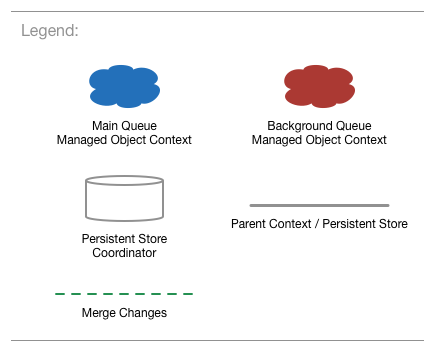
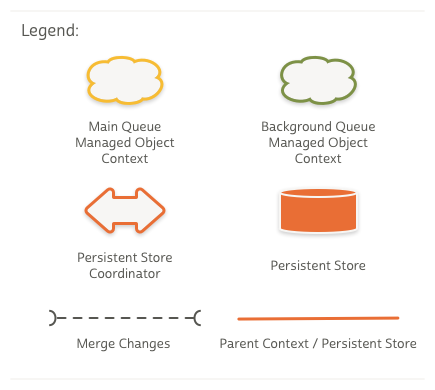
Add new diagrams for documenting stack types.

diff --git a/README.md b/README.md
@@ -1,13 +1,40 @@
 # BNR CoreData Stack - README is a Work in Progress
 
+The BNR CoreData Stack is a small framework, written in Swift, that makes it easy to quickly set up a multi-threading ready CoreData stack.
 ## Base CoreDataStack
 
-![Legent](./Resources/Legend.png)
+various stack types
 
-## Nested Managed Object Context Stack
+## Stack Types
+
+![Legend](./Resources/Legend.png)
+
+### Nested Managed Object Context Stack Type
 
 ![Nested Managed Object Context Stack](./Resources/NestedMOC.png)
 
-## Thread Confined Managed Object Context Stack
+### Shared Persistent Store Coordinator Stack Type
 
-![Thread Confined Managed Object Context Stack](./Resources/ThreadConfined.png)
+![Thread Confined Managed Object Context Stack](./Resources/SharedPersistentStore.png)
+
+### Shared Store Stack Type
+
+![Shared Store Stack Type](./Resources/SharedStore.png)
+
+### BNR Stack
+
+![Thread Confined Managed Object Context Stack](./Resources/BNR_Stack.png)
+
+## Helpful Extensions
+
+### NSPersistentStoreCoordinator SQLite Helpers
+
+NSPersistentStoreCoordinator+SQLiteHelpers.swift
+
+### NSManagedObjectContext Save Convenience Methods
+
+NSManagedObjectContext+SaveHelpers.swift
+
+### Validation Error Coalescing
+
+NSError+CoreDataValidationErrors.swift
